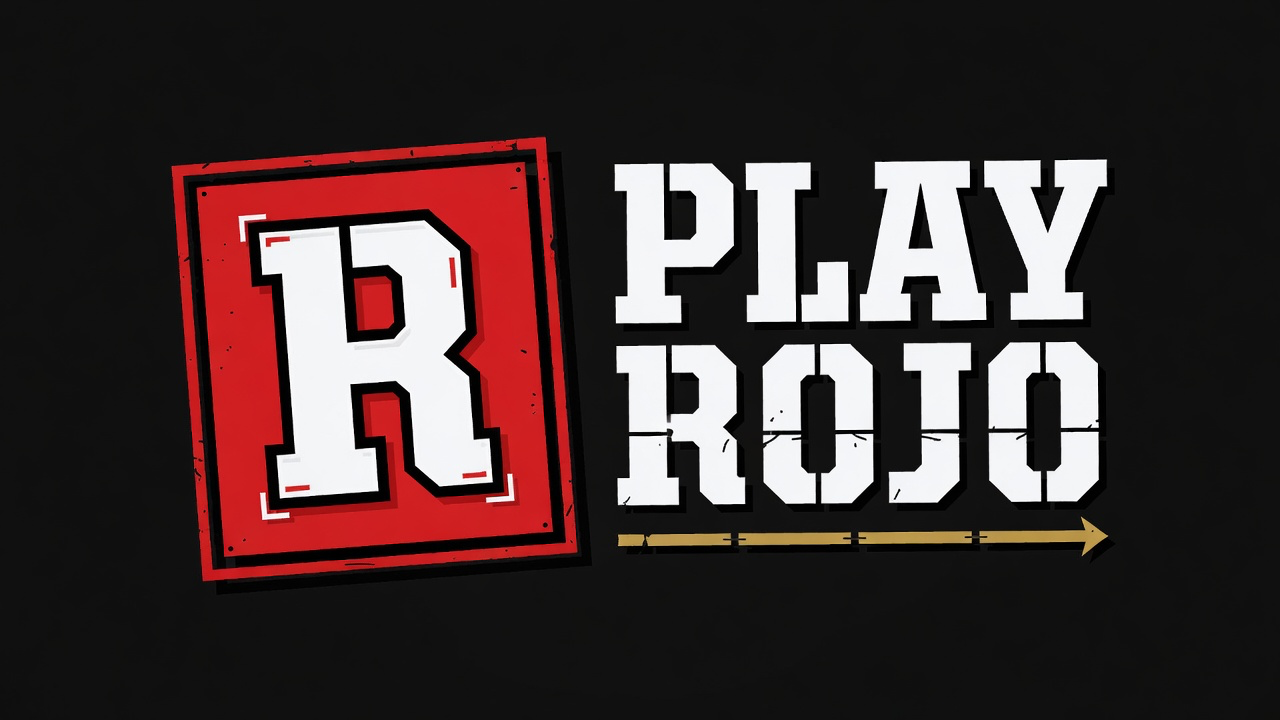
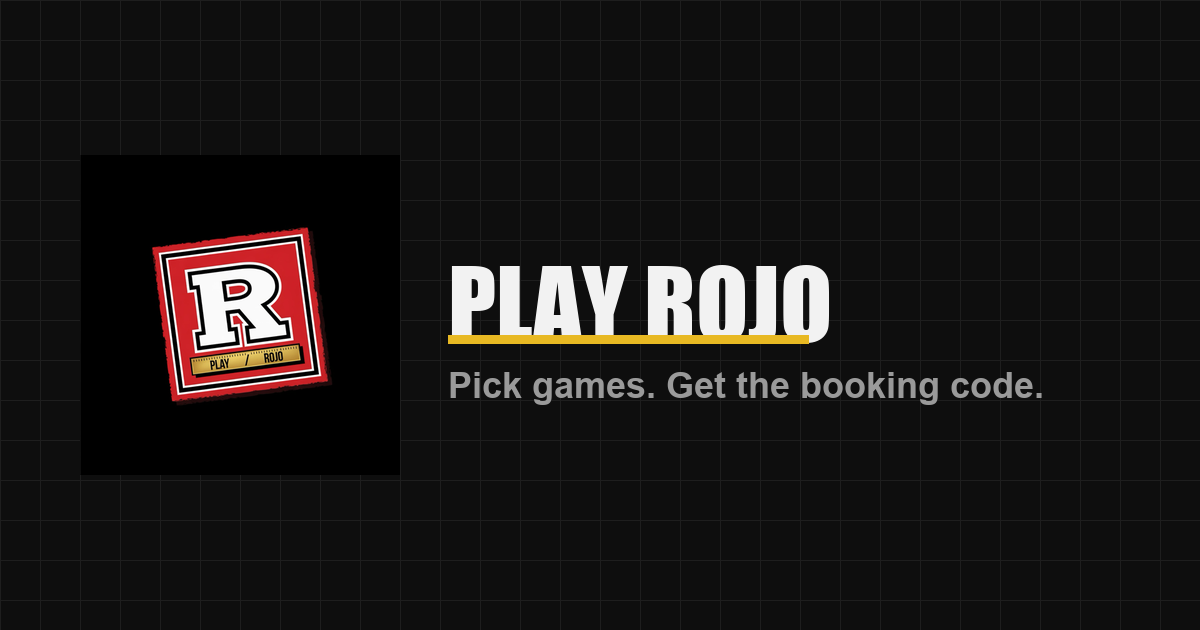
Add NEXT_PUBLIC_SITE_URL for Open Graph previews and update layout metadata

Changed region(s): [[0.1233, 0.181, 0.8633, 0.8143]]

diff --git a/src/app/layout.tsx b/src/app/layout.tsx
@@ -1,7 +1,16 @@
 import type { Metadata, Viewport } from "next"
 import "./globals.css"
 
+const siteUrl =
+  process.env.NEXT_PUBLIC_SITE_URL?.replace(/\/$/, "") ||
+  (process.env.URL ? process.env.URL.replace(/\/$/, "") : null) ||
+  (process.env.DEPLOY_PRIME_URL
+    ? process.env.DEPLOY_PRIME_URL.replace(/\/$/, "")
+    : null) ||
+  "https://playrojo.netlify.app"
+
 export const metadata: Metadata = {
+  metadataBase: new URL(siteUrl),
   title: {
     default: "Play Rojo · Betting desk",
     template: "%s · Play Rojo",
@@ -31,11 +40,21 @@ export const metadata: Metadata = {
   manifest: "/site.webmanifest",
   openGraph: {
     type: "website",
+    url: "/",
     siteName: "Play Rojo",
     title: "Play Rojo · Betting desk",
     description:
       "Pick games, get a booking code for SportyBet or Football.com.",
-    images: [{ url: "/og.png", width: 1200, height: 630, alt: "Play Rojo" }],
+    images: [
+      {
+        url: "/og.png",
+        width: 1200,
+        height: 630,
+        alt: "Play Rojo",
+        type: "image/png",
+      },
+    ],
+    locale: "en_NG",
   },
   twitter: {
     card: "summary_large_image",
@@ -44,6 +63,9 @@ export const metadata: Metadata = {
     images: ["/og.png"],
   },
   robots: { index: true, follow: true },
+  alternates: {
+    canonical: "/",
+  },
 }
 
 export const viewport: Viewport = {

diff --git a/README.md b/README.md
@@ -74,6 +74,7 @@ Build command is `npm run build` (`prisma generate && next build`).
 | `XAI_API_KEY` | no | yes | coach assist |
 | `SPORTY_COUNTRY` | no | no | default `ng` (also in netlify.toml) |
 | `DEFAULT_BOOKMAKER` | no | no | `football` or `sportybet` (also in netlify.toml) |
+| `NEXT_PUBLIC_SITE_URL` | prod | no | `https://playrojo.netlify.app` (OG image absolute URL) |
 
 ## 18+
 
